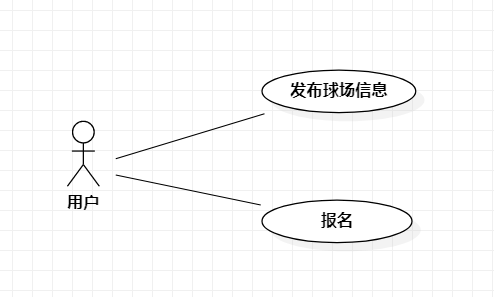
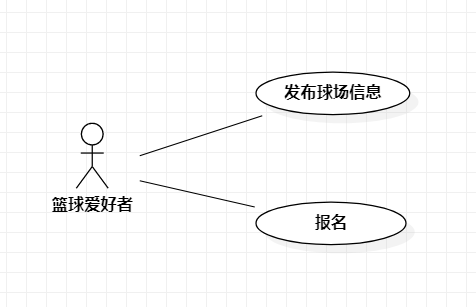
修改第二次实验

diff --git a/students/1714080902234/lab2.md b/students/1714080902234/lab2.md
@@ -15,7 +15,7 @@
 - 确定用例
   - 发布球场信息
   - 报名
-- 确定参与者：用户
+- 确定参与者：篮球爱好者
 - 绘画用例图
 - 编写用例规约
 
@@ -29,26 +29,26 @@
 用例编号  | UC01 | 备注  
 -|:-|-  
 用例名称  | 发布球场信息  |   
-前置条件  |用户通过身份认证|    
+前置条件  |篮球爱好者通过身份认证|    
 后置条件  |  |   
-基本流程  | 1. 用户点击发布球场信息按钮；  | 用例执行成功的步骤
+基本流程  | 1. 篮球爱好者点击发布球场信息按钮；  | 用例执行成功的步骤
 ~| 2. 系统显示球场信息发布页面；  |   
-~| 3. 用户输入球场位置信息、已有人数，点击添加按钮；  | 
-~| 4. 系统**提示“我已确认球场信息无误”** ；|  
-~| 5. 用户点击“是”按钮 ；|  
-~| 6. 系统发布球场信息；  |      
-扩展流程  | 5.1 用户点击“否”按钮，系统关闭提示 |  
+~| 3. 篮球爱好者输入球场位置、已有人数，点击添加按钮；  | 
+~| 4. 系统检查该位置存在球场，保存球场信息，发布球场信息； |  
+~| 5. 系统提示“发布成功”； |       
+扩展流程  | 4.1 系统检查该位置不存在球场，提示“该位置没有球场” | 用例执行失败 
 
 ## 表2：报名用例规约 
 
 用例编号  | UC02 | 备注  
 -|:-|-  
 用例名称  | 报名  |   
-前置条件  |用户通过身份认证|    
+前置条件  |篮球爱好者通过身份认证|    
 后置条件  | |   
-基本流程  | 1. 用户点击报名按钮；  | 用例执行成功的步骤 
+基本流程  | 1. 篮球爱好者点击报名按钮；  | 用例执行成功的步骤 
 ~| 2. 系统显示球场信息页面； |   
-~| 3. 用户点击“我要报名”按钮； | 
-~| 4. 系统**提示“报名成功”**；  |   
-扩展流程  | 3.1 球场人数已达上限，系统**提示“报名失败”**； | 用例执行失败 
+~| 3. 篮球爱好者点击“我要报名”按钮； | 
+~| 4. 系统检查球场人数未达上限，修改球场人数，保存报名信息；  |  
+~| 5. 系统提示“报名成功”；  | 
+扩展流程  | 4.1 系统检查球场人数已达上限，系统提示“人数已达上限” | 用例执行失败 
  
